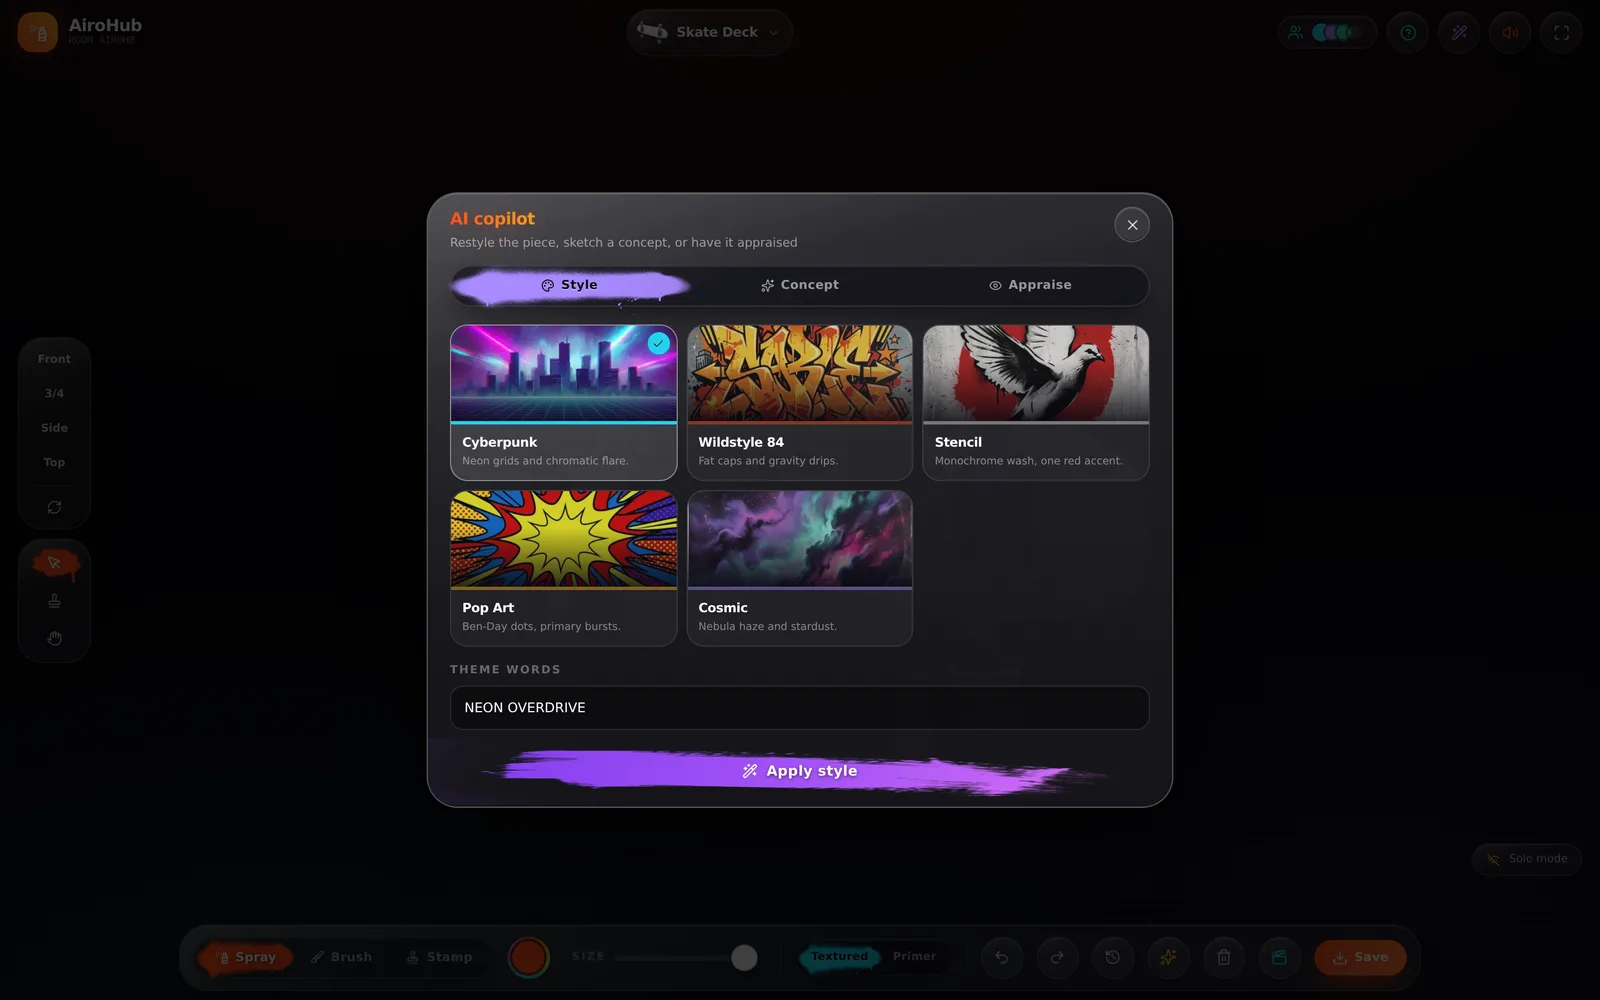
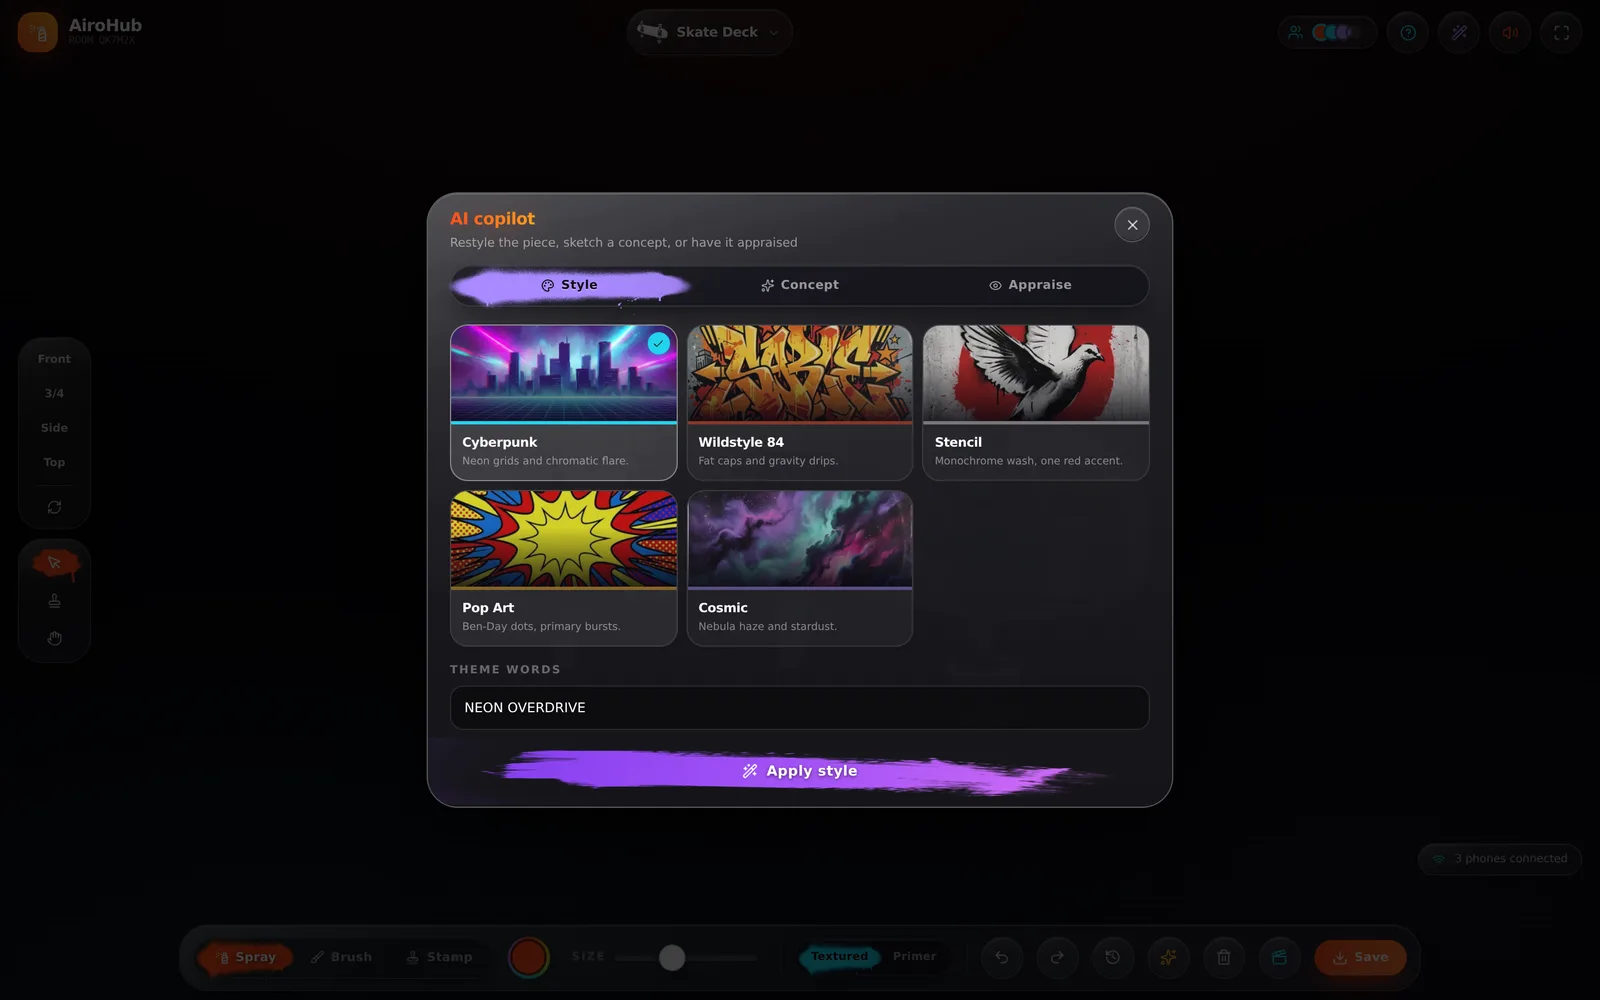
fix(guide): reshoot studio captures off a neutral room code, measure hotspots
The capture pass had created its demo room as AIROHB, so the studio header
rendered "ROOM AIROHB" directly under the correctly spelled wordmark and
read as a misspelling of the product. Re-shot every studio and phone
capture in room QK7M2X, which cannot be mistaken for the brand.

Hotspot positions now come from getBoundingClientRect() on the live page
at capture time rather than from estimates read off the picture; the
player tag in particular was ~9% of the frame out. Adds a twelfth marker
for the AI copilot, which sits in the top bar rather than the dock.

Claude-Session: https://claude.ai/code/session_01YVW2rbBc6iaAhBfCYedKuy

Changed region(s): [[0.2812, 0.496, 0.4375, 0.589], [0.4062, 0.93, 0.4688, 0.992]]

diff --git a/src/components/HowItWorks.tsx b/src/components/HowItWorks.tsx
@@ -45,7 +45,7 @@ interface Hotspot {
 const HOTSPOTS: Hotspot[] = [
   {
     key: 'room-badge',
-    x: 4.9, y: 3.2, side: 'bottom', accent: '#FF4D1C',
+    x: 5.0, y: 3.2, side: 'bottom', accent: '#FF4D1C',
     title: 'The room code',
     body: 'Every studio gets a six-character code. Phones join by scanning the QR or typing it — no install, no account.',
   },
@@ -57,55 +57,61 @@ const HOTSPOTS: Hotspot[] = [
   },
   {
     key: 'roster',
-    x: 82.9, y: 3.2, side: 'bottom', accent: '#34D399',
+    x: 83.0, y: 3.2, side: 'bottom', accent: '#34D399',
     title: 'Who is holding a can',
     body: 'Live presence. Each painter is given a slot colour that follows them across the scene, the roster and their phone.',
   },
   {
+    key: 'ai-button',
+    x: 91.2, y: 3.2, side: 'left', accent: '#E879F9',
+    title: 'The copilot',
+    body: 'Describe a direction and it comes back with palettes and stencils you can spray straight onto the piece.',
+  },
+  {
     key: 'camera-rail',
-    x: 3.4, y: 41.0, side: 'right', accent: '#22D3EE',
+    x: 3.4, y: 43.3, side: 'right', accent: '#22D3EE',
     title: 'Camera presets',
     body: 'Snap the view to front, three-quarter, side or top. Drag anywhere on the stage to orbit freely.',
   },
   {
     key: 'stage-mode',
-    x: 3.4, y: 60.0, side: 'right', accent: '#A78BFA',
+    x: 3.4, y: 60.1, side: 'right', accent: '#A78BFA',
     title: 'What a drag does',
     body: 'Set whether dragging on the big screen paints, places a stamp, or spins the object.',
   },
   {
     key: 'player-tag',
-    x: 58.5, y: 45.6, side: 'right', accent: '#22D3EE',
+    x: 67.0, y: 36.1, side: 'right', accent: '#22D3EE',
     title: 'Their aim, live',
     body: 'Each phone gets a floating can drawn where it is pointing — rendered about 90 ms in the past through a jitter buffer, so a lumpy network still reads as one smooth line.',
   },
   {
     key: 'subject',
-    x: 54.0, y: 50.0, side: 'left', accent: '#FF4D1C',
+    x: 53.4, y: 52.3, side: 'left', accent: '#FF4D1C',
     title: 'One shared texture',
     body: 'Paint is composited into the model’s own texture rather than floating in front of it, so it survives camera moves, object spins and a page reload.',
   },
   {
     key: 'tool-toggle',
-    x: 21.3, y: 95.7, side: 'top', accent: '#FF4D1C',
+    x: 21.5, y: 95.8, side: 'top', accent: '#FF4D1C',
     title: 'Spray, brush, stamp',
     body: 'Soft atomised spray for fades, a hard brush for lines, and stamps for stencils and uploaded images.',
   },
   {
     key: 'finish-toggle',
-    x: 54.5, y: 95.7, side: 'top', accent: '#22D3EE',
+    x: 54.6, y: 95.8, side: 'top', accent: '#22D3EE',
     title: 'Textured or primer',
     body: 'Paint over the model’s own material, or strip it back to a bare primer coat and start from white.',
   },
   {
     key: 'history',
-    x: 64.4, y: 95.7, side: 'top', accent: '#A78BFA',
+    x: 66.1, y: 95.8, side: 'top', accent: '#A78BFA',
     title: 'Undo for the whole room',
     body: 'Every stroke is logged, so undo, redo and a full replay of the piece work across all the painters at once.',
   },
   {
     key: 'showcase-button',
-    x: 80.0, y: 95.7, side: 'top', accent: '#FFB020',
+    x: 80.0, y: 95.8, side: 'top', accent: '#FFB020',
     title: 'Take it with you',
     body: 'Save a PNG, or record a cinematic turntable of the finished object straight off the canvas as a video.',
   },
